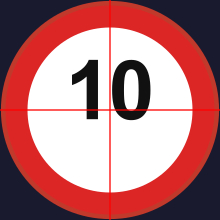
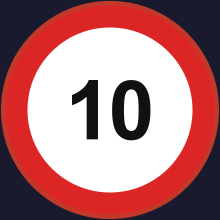
Revert speed limit text to y=15.2 — correct for browser Arial metrics
rsvg gave misleading results; actual Chrome/Safari screenshot (speedlimit2.png)
confirmed y=13 placed text too high. Mathematically: cap-height ~6.4 for
Arial Bold size 9, so baseline = 12 + 6.4/2 = 15.2 centres on the circle.
The earlier layout bug (button not centred) was a separate CSS fix.

Changed region(s): [[0.0, 0.0, 1.0, 1.0]]

diff --git a/viewer3d.js b/viewer3d.js
@@ -351,7 +351,7 @@ function _buildCamButtons(cfg) {
   // Speed limit sign — decorative, non-functional
   const speedBtn = document.createElement('div');
   speedBtn.className = 'cam-preset-btn speed-limit-sign';
-  speedBtn.innerHTML = `<div class="icon-wrap"><svg viewBox="0 0 24 24" xmlns="http://www.w3.org/2000/svg"><defs><radialGradient id="spd-glow" cx="40%" cy="35%" r="60%"><stop offset="0%" stop-color="#ffffff" stop-opacity="0.25"/><stop offset="100%" stop-color="#000000" stop-opacity="0.06"/></radialGradient></defs><circle cx="12" cy="12" r="11.5" fill="#ffffff" stroke="#c0392b" stroke-width="0.8"/><circle cx="12" cy="12" r="10.2" fill="none" stroke="#dc2626" stroke-width="2.4"/><circle cx="12" cy="12" r="7.8" fill="#ffffff" stroke="none"/><text x="12" y="13" text-anchor="middle" font-family="Arial,sans-serif" font-weight="900" font-size="9" fill="#111111" stroke="none" letter-spacing="-0.3">10</text><circle cx="12" cy="12" r="11.5" fill="url(#spd-glow)" stroke="none" pointer-events="none"/></svg></div><span class="label-wrap">Speed limit</span>`;
+  speedBtn.innerHTML = `<div class="icon-wrap"><svg viewBox="0 0 24 24" xmlns="http://www.w3.org/2000/svg"><defs><radialGradient id="spd-glow" cx="40%" cy="35%" r="60%"><stop offset="0%" stop-color="#ffffff" stop-opacity="0.25"/><stop offset="100%" stop-color="#000000" stop-opacity="0.06"/></radialGradient></defs><circle cx="12" cy="12" r="11.5" fill="#ffffff" stroke="#c0392b" stroke-width="0.8"/><circle cx="12" cy="12" r="10.2" fill="none" stroke="#dc2626" stroke-width="2.4"/><circle cx="12" cy="12" r="7.8" fill="#ffffff" stroke="none"/><text x="12" y="15.2" text-anchor="middle" font-family="Arial,sans-serif" font-weight="900" font-size="9" fill="#111111" stroke="none" letter-spacing="-0.3">10</text><circle cx="12" cy="12" r="11.5" fill="url(#spd-glow)" stroke="none" pointer-events="none"/></svg></div><span class="label-wrap">Speed limit</span>`;
   wrap.appendChild(speedBtn);
 }
 